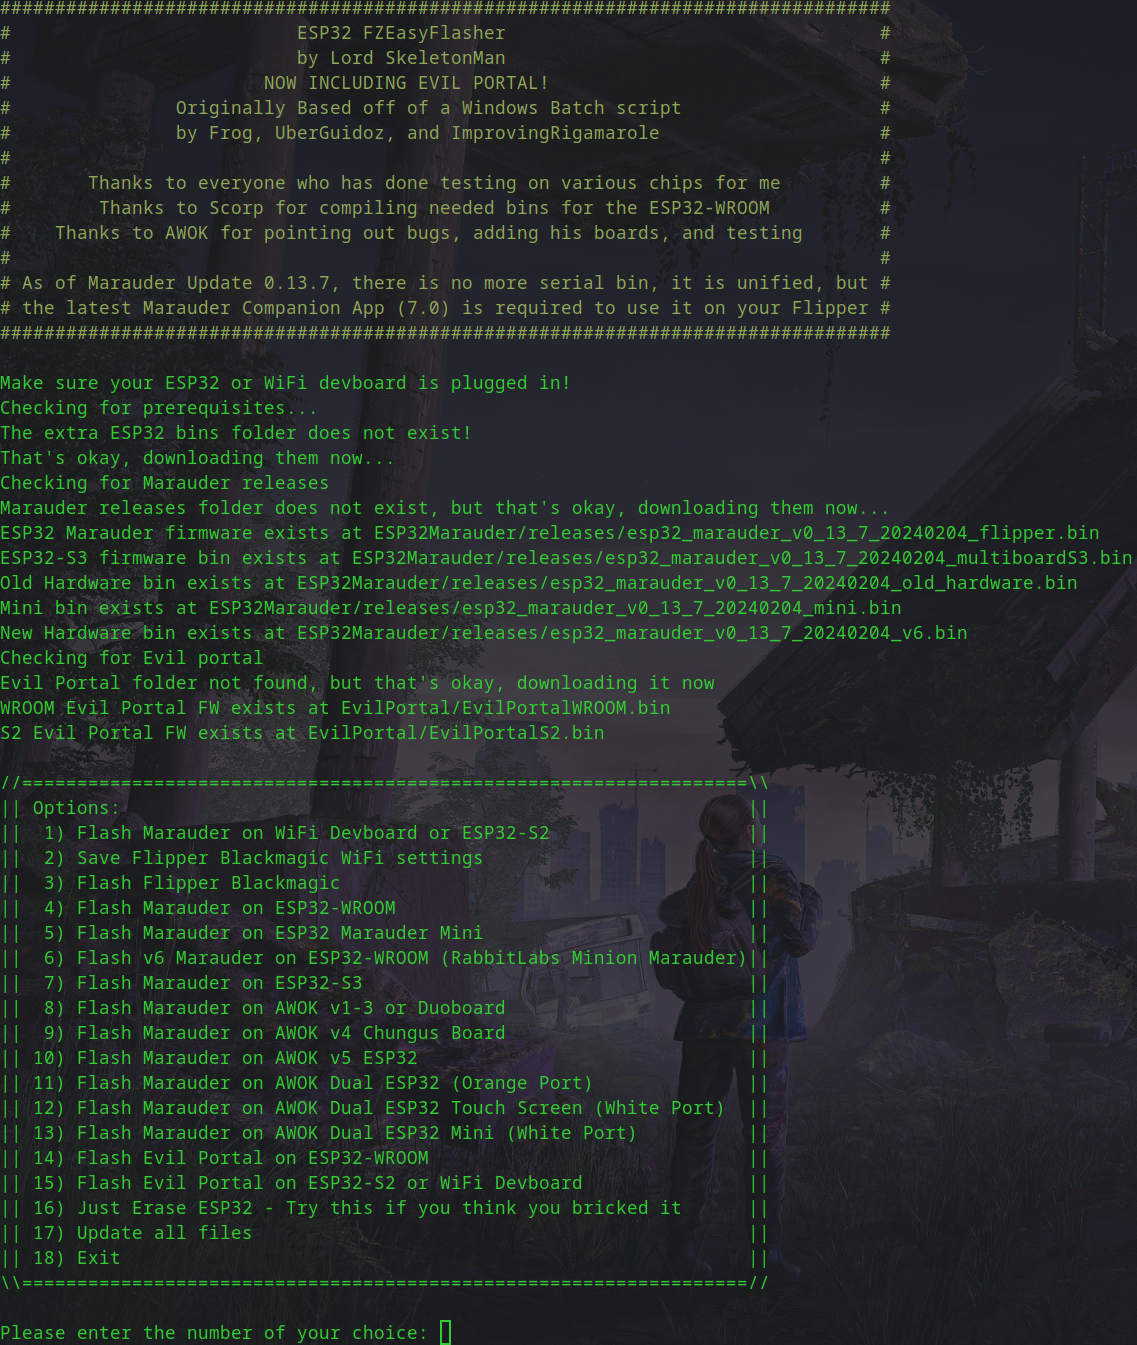
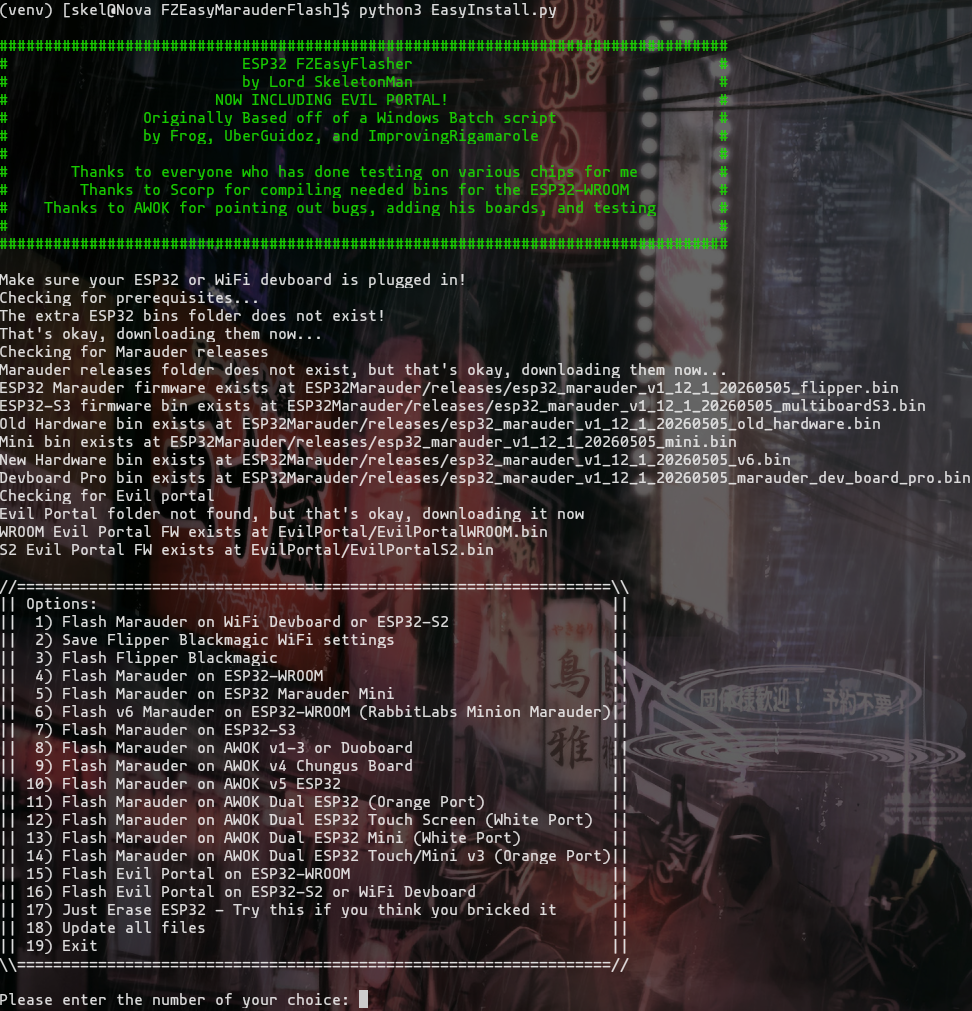
Overdue updates to use current ESPTool, added support for v3 AWOK boards

diff --git a/EasyInstall.py b/EasyInstall.py
@@ -33,8 +33,6 @@ OPENASCII=Fore.GREEN+r'''
 #        Thanks to Scorp for compiling needed bins for the ESP32-WROOM		#
 #    Thanks to AWOK for pointing out bugs, adding his boards, and testing  	#
 #										#
-# As of Marauder Update 0.13.7, there is no more serial bin, it is unified, but #
-# the latest Marauder Companion App (7.0) is required to use it on your Flipper #
 #################################################################################
 '''+Style.RESET_ALL
 
@@ -101,18 +99,19 @@ def choose_fw():
 ||  4) Flash Marauder on ESP32-WROOM			            ||
 ||  5) Flash Marauder on ESP32 Marauder Mini		            ||
 ||  6) Flash v6 Marauder on ESP32-WROOM (RabbitLabs Minion Marauder)||
-||  7) Flash Marauder on ESP32-S3 (There is no current S3 bin)      ||
+||  7) Flash Marauder on ESP32-S3                                   ||
 ||  8) Flash Marauder on AWOK v1-3 or Duoboard                      ||
 ||  9) Flash Marauder on AWOK v4 Chungus Board                      ||
 || 10) Flash Marauder on AWOK v5 ESP32                              ||
 || 11) Flash Marauder on AWOK Dual ESP32 (Orange Port)              ||
 || 12) Flash Marauder on AWOK Dual ESP32 Touch Screen (White Port)  ||
 || 13) Flash Marauder on AWOK Dual ESP32 Mini (White Port)          ||
-|| 14) Flash Evil Portal on ESP32-WROOM				    ||
-|| 15) Flash Evil Portal on ESP32-S2 or WiFi Devboard		    ||
-|| 16) Just Erase ESP32 - Try this if you think you bricked it	    ||
-|| 17) Update all files					            ||
-|| 18) Exit						            ||
+|| 14) Flash Marauder on AWOK Dual ESP32 Touch/Mini v3 (Orange Port)||
+|| 15) Flash Evil Portal on ESP32-WROOM				    ||
+|| 16) Flash Evil Portal on ESP32-S2 or WiFi Devboard		    ||
+|| 17) Just Erase ESP32 - Try this if you think you bricked it	    ||
+|| 18) Update all files					            ||
+|| 19) Exit						            ||
 \\==================================================================//
 '''
 	#Still not perfect, but better
@@ -120,7 +119,7 @@ def choose_fw():
 	global selectedboard
 	global fwchoice
 	global fwchoicepreselect
-	hardresetlist=[5, 6, 8, 9, 10, 11, 12, 13]
+	hardresetlist=[5, 6, 8, 9, 10, 11, 12, 13, 14]
 
 	if fwchoice!=None:
 		fwchoicepreselect=True
@@ -133,9 +132,9 @@ def choose_fw():
 		print(choices)
 		fwchoice=int(input("Please enter the number of your choice: "))
 	if fwchoice in hardresetlist:
-		reset='hard_reset'
+		reset='hard-reset'
 	else:
-		reset='no_reset'
+		reset='no-reset'
 	if fwchoice==1:
 		print("You have chosen to flash Marauder on a WiFi devboard or ESP32-S2")
 		chip="esp32s2"
@@ -149,15 +148,15 @@ def choose_fw():
 		offset_three='0x10000'
 		fwbin=esp32marauderfw
 		checkforserialport()
-		eraseparams=['-p', serialport, '-b', BR, '-a', 'no_reset', 'erase_flash']
-		flashparams=['-p', serialport, '-b', BR, '-c', chip, '--before', 'default_reset', '-a', reset, 'write_flash', '--flash_mode', 'dio', '--flash_freq', '80m', '--flash_size', flashsize, offset_one, bootloader_bin, offset_two, partitions_bin, offset_three, fwbin]
+		eraseparams=['-p', serialport, '-b', BR, '-a', 'no-reset', 'erase-flash']
+		flashparams=['-p', serialport, '-b', BR, '-c', chip, '--before', 'default-reset', '-a', reset, 'write-flash', '--flash-mode', 'dio', '--flash-freq', '80m', '--flash-size', flashsize, offset_one, bootloader_bin, offset_two, partitions_bin, offset_three, fwbin]
 		flashtheboard(eraseparams, flashparams)
 	elif fwchoice==2:
 		print("You have chosen to save Flipper Blackmagic WiFi settings")
 		chip="esp32s2"
 		checkforserialport()
-		eraseparams=['-p', serialport, '-b', BR, 'erase_flash']
-		savebmset=['-p', serialport, '-b', BR, '-c', chip, '-a', 'no_reset', 'read_flash', '0x9000', '0x6000', extraesp32bins+'/Blackmagic/nvs.bin']
+		eraseparams=['-p', serialport, '-b', BR, 'erase-flash']
+		savebmset=['-p', serialport, '-b', BR, '-c', chip, '-a', 'no-reset', 'read_flash', '0x9000', '0x6000', extraesp32bins+'/Blackmagic/nvs.bin']
 		save_flipperbmsettings(savebmset)
 	elif fwchoice==3:
 		print("You have chosen to flash Flipper Blackmagic")
@@ -171,15 +170,15 @@ def choose_fw():
 		partitions_bin=extraesp32bins+'/Blackmagic/partition-table.bin'
 		fwbin=extraesp32bins+'/Blackmagic/blackmagic.bin'
 		checkforserialport()
-		eraseparams=['-p', serialport, '-b', BR, 'erase_flash']
+		eraseparams=['-p', serialport, '-b', BR, 'erase-flash']
 		if os.path.exists(extraesp32bins+"/Blackmagic/nvs.bin"):
 			offset_three='0x9000'
 			wifisettings=extraesp32bins+'/Blackmagic/nvs.bin'
 			offset_four='0x10000'
-			flashparams=['-p', serialport, '-b', BR, '-c', chip, '--before', 'default_reset', '-a', 'no_reset', 'write_flash', '--flash_mode', 'dio', '--flash_freq', '80m', '--flash_size', flashsize, offset_one, bootloader_bin, offset_two, partitions_bin, offset_three, wifisettings, offset_four, fwbin]
+			flashparams=['-p', serialport, '-b', BR, '-c', chip, '--before', 'default-reset', '-a', 'no-reset', 'write-flash', '--flash-mode', 'dio', '--flash-freq', '80m', '--flash-size', flashsize, offset_one, bootloader_bin, offset_two, partitions_bin, offset_three, wifisettings, offset_four, fwbin]
 		else:
 			offset_three='0x10000'
-			flashparams=esptool.main['-p', serialport, '-b', BR, '-c', chip, '--before', 'default_reset', '-a', 'no_reset', 'write_flash', '--flash_mode', 'dio', '--flash_freq', '80m', '--flash_size', flashsize, offset_one, bootloader_bin, offset_two, partitions_bin, offset_three, fwbin]
+			flashparams=esptool.main['-p', serialport, '-b', BR, '-c', chip, '--before', 'default-reset', '-a', 'no-reset', 'write-flash', '--flash-mode', 'dio', '--flash-freq', '80m', '--flash-size', flashsize, offset_one, bootloader_bin, offset_two, partitions_bin, offset_three, fwbin]
 		flashtheboard(eraseparams, flashparams)
 	elif fwchoice==4:
 		print("You have chosen to flash Marauder onto an ESP32-WROOM")
@@ -194,8 +193,8 @@ def choose_fw():
 		offset_three='0x10000'
 		fwbin=espoldhardwarefw
 		checkforserialport()
-		eraseparams=['-p', serialport, '-b', BR, 'erase_flash']
-		flashparams=['-p', serialport, '-b', BR, '-c', chip, '--before', 'default_reset', '-a', reset, 'write_flash', '--flash_mode', 'dio', '--flash_freq', '80m', '--flash_size', flashsize, offset_one, bootloader_bin, offset_two, partitions_bin, offset_three, fwbin]		
+		eraseparams=['-p', serialport, '-b', BR, 'erase-flash']
+		flashparams=['-p', serialport, '-b', BR, '-c', chip, '--before', 'default-reset', '-a', reset, 'write-flash', '--flash-mode', 'dio', '--flash-freq', '80m', '--flash-size', flashsize, offset_one, bootloader_bin, offset_two, partitions_bin, offset_three, fwbin]		
 		flashtheboard(eraseparams, flashparams)
 	elif fwchoice==5:
 		print("You have chosen to flash Marauder onto an ESP32 Marauder Mini")
@@ -210,8 +209,8 @@ def choose_fw():
 		offset_three='0x10000'
 		fwbin=esp32minifw
 		checkforserialport()
-		eraseparams=['-p', serialport, '-b', BR, 'erase_flash']
-		flashparams=['-p', serialport, '-b', BR, '-c', chip, '--before', 'default_reset', '-a', reset, 'write_flash', '--flash_mode', 'dio', '--flash_freq', '80m', '--flash_size', flashsize, offset_one, bootloader_bin, offset_two, partitions_bin, offset_three, fwbin]
+		eraseparams=['-p', serialport, '-b', BR, 'erase-flash']
+		flashparams=['-p', serialport, '-b', BR, '-c', chip, '--before', 'default-reset', '-a', reset, 'write-flash', '--flash-mode', 'dio', '--flash-freq', '80m', '--flash-size', flashsize, offset_one, bootloader_bin, offset_two, partitions_bin, offset_three, fwbin]
 		flashtheboard(eraseparams, flashparams)
 	elif fwchoice==6:
 		print("You have chosen to flash Marauder v6 onto an ESP32-WROOM")
@@ -226,8 +225,8 @@ def choose_fw():
 		offset_three='0x10000'
 		fwbin=espnewhardwarefw
 		checkforserialport()
-		eraseparams=['-p', serialport, '-b', BR, 'erase_flash']
-		flashparams=['-p', serialport, '-b', BR, '-c', chip, '--before', 'default_reset', '-a', reset, 'write_flash', '--flash_mode', 'dio', '--flash_freq', '80m', '--flash_size', flashsize, offset_one, bootloader_bin, offset_two, partitions_bin, offset_three, fwbin]
+		eraseparams=['-p', serialport, '-b', BR, 'erase-flash']
+		flashparams=['-p', serialport, '-b', BR, '-c', chip, '--before', 'default-reset', '-a', reset, 'write-flash', '--flash-mode', 'dio', '--flash-freq', '80m', '--flash-size', flashsize, offset_one, bootloader_bin, offset_two, partitions_bin, offset_three, fwbin]
 		flashtheboard(eraseparams, flashparams)
 	elif fwchoice==7:
 		print("You have chosen to flash Marauder onto an ESP32-S3")
@@ -250,8 +249,8 @@ def choose_fw():
 		offset_four='0x10000'
 		fwbin=esp32s3fw
 		checkforserialport()
-		eraseparams=['-p', serialport, '-b', BR, 'erase_flash']
-		flashparams=['-p', serialport, '-b', BR, '-c', chip, '--before', 'default_reset', '-a', 'no_reset', 'write_flash', '--flash_mode', 'dio', '--flash_freq', '80m', '--flash_size', flashsize, offset_one, bootloader_bin, offset_two, partitions_bin, offset_three, boot_app, offset_four, fwbin]
+		eraseparams=['-p', serialport, '-b', BR, 'erase-flash']
+		flashparams=['-p', serialport, '-b', BR, '-c', chip, '--before', 'default-reset', '-a', 'no-reset', 'write-flash', '--flash-mode', 'dio', '--flash-freq', '80m', '--flash-size', flashsize, offset_one, bootloader_bin, offset_two, partitions_bin, offset_three, boot_app, offset_four, fwbin]
 		flashtheboard(eraseparams, flashparams)
 	elif fwchoice==8:
 		print("You have chosen to flash Marauder onto an AWOK v1-3 or Duoboard")
@@ -266,8 +265,8 @@ def choose_fw():
 		offset_three='0x10000'
 		fwbin=espoldhardwarefw
 		checkforserialport()
-		eraseparams=['-p', serialport, '-b', BR, 'erase_flash']
-		flashparams=['-p', serialport, '-b', BR, '-c', chip, '--before', 'default_reset', '-a', reset, 'write_flash', '--flash_mode', 'dio', '--flash_freq', '80m', '--flash_size', flashsize, offset_one, bootloader_bin, offset_two, partitions_bin, offset_three, fwbin]
+		eraseparams=['-p', serialport, '-b', BR, 'erase-flash']
+		flashparams=['-p', serialport, '-b', BR, '-c', chip, '--before', 'default-reset', '-a', reset, 'write-flash', '--flash-mode', 'dio', '--flash-freq', '80m', '--flash-size', flashsize, offset_one, bootloader_bin, offset_two, partitions_bin, offset_three, fwbin]
 		flashtheboard(eraseparams, flashparams)
 	elif fwchoice==9:
 		print("You have chosen to flash Marauder on an AWOK v4 Chungus Board")
@@ -282,8 +281,8 @@ def choose_fw():
 		offset_three='0x10000'
 		fwbin=esp32marauderfw
 		checkforserialport()
-		eraseparams=['-p', serialport, '-b', BR, 'erase_flash']
-		flashparams=['-p', serialport, '-b', BR, '-c', chip, '--before', 'default_reset', '-a', reset, 'write_flash', '--flash_mode', 'dio', '--flash_freq', '80m', '--flash_size', flashsize, offset_one, bootloader_bin, offset_two, partitions_bin, offset_three, fwbin]
+		eraseparams=['-p', serialport, '-b', BR, 'erase-flash']
+		flashparams=['-p', serialport, '-b', BR, '-c', chip, '--before', 'default-reset', '-a', reset, 'write-flash', '--flash-mode', 'dio', '--flash-freq', '80m', '--flash-size', flashsize, offset_one, bootloader_bin, offset_two, partitions_bin, offset_three, fwbin]
 		flashtheboard(eraseparams, flashparams)
 	elif fwchoice==10:
 		print("You have chosen to flash Marauder on an AWOK v5 ESP32")
@@ -298,8 +297,8 @@ def choose_fw():
 		offset_three='0x10000'
 		fwbin=esp32marauderfw
 		checkforserialport()
-		eraseparams=['-p', serialport, '-b', BR, 'erase_flash']
-		flashparams=['-p', serialport, '-b', BR, '-c', chip, '--before', 'default_reset', '-a', reset, 'write_flash', '--flash_mode', 'dio', '--flash_freq', '80m', '--flash_size', flashsize, offset_one, bootloader_bin, offset_two, partitions_bin, offset_three, fwbin]
+		eraseparams=['-p', serialport, '-b', BR, 'erase-flash']
+		flashparams=['-p', serialport, '-b', BR, '-c', chip, '--before', 'default-reset', '-a', reset, 'write-flash', '--flash-mode', 'dio', '--flash-freq', '80m', '--flash-size', flashsize, offset_one, bootloader_bin, offset_two, partitions_bin, offset_three, fwbin]
 		flashtheboard(eraseparams, flashparams)
 	elif fwchoice==11:
 		print("You have chosen to flash Marauder on an AWOK Dual ESP32 (Orange Port)")
@@ -314,8 +313,8 @@ def choose_fw():
 		offset_three='0x10000'
 		fwbin=esp32marauderfw
 		checkforserialport()
-		eraseparams=['-p', serialport, '-b', BR, 'erase_flash']
-		flashparams=['-p', serialport, '-b', BR, '-c', chip, '--before', 'default_reset', '-a', reset, 'write_flash', '--flash_mode', 'dio', '--flash_freq', '80m', '--flash_size', flashsize, offset_one, bootloader_bin, offset_two, partitions_bin, offset_three, fwbin]
+		eraseparams=['-p', serialport, '-b', BR, 'erase-flash']
+		flashparams=['-p', serialport, '-b', BR, '-c', chip, '--before', 'default-reset', '-a', reset, 'write-flash', '--flash-mode', 'dio', '--flash-freq', '80m', '--flash-size', flashsize, offset_one, bootloader_bin, offset_two, partitions_bin, offset_three, fwbin]
 		flashtheboard(eraseparams, flashparams)
 	elif fwchoice==12: 
 		print("You have chosen to flash Marauder onto an AWOK Dual ESP32 Touch Screen (White Port)")
@@ -330,8 +329,8 @@ def choose_fw():
 		offset_three='0x10000'
 		fwbin=espnewhardwarefw
 		checkforserialport()
-		eraseparams=['-p', serialport, '-b', BR, 'erase_flash']
-		flashparams=['-p', serialport, '-b', BR, '-c', chip, '--before', 'default_reset', '-a', reset, 'write_flash', '--flash_mode', 'dio', '--flash_freq', '80m', '--flash_size', flashsize, offset_one, bootloader_bin, offset_two, partitions_bin, offset_three, fwbin]
+		eraseparams=['-p', serialport, '-b', BR, 'erase-flash']
+		flashparams=['-p', serialport, '-b', BR, '-c', chip, '--before', 'default-reset', '-a', reset, 'write-flash', '--flash-mode', 'dio', '--flash-freq', '80m', '--flash-size', flashsize, offset_one, bootloader_bin, offset_two, partitions_bin, offset_three, fwbin]
 		flashtheboard(eraseparams, flashparams)
 	elif fwchoice==13:
 		print("You have chosen to flash Marauder onto an AWOK Dual ESP32 Mini (White Port)")
@@ -346,10 +345,26 @@ def choose_fw():
 		offset_three='0x10000'
 		fwbin=esp32minifw
 		checkforserialport()
-		eraseparams=['-p', serialport, '-b', BR, 'erase_flash']
-		flashparams=['-p', serialport, '-b', BR, '-c', chip, '--before', 'default_reset', '-a', reset, 'write_flash', '--flash_mode', 'dio', '--flash_freq', '80m', '--flash_size', flashsize, offset_one, bootloader_bin, offset_two, partitions_bin, offset_three, fwbin]
+		eraseparams=['-p', serialport, '-b', BR, 'erase-flash']
+		flashparams=['-p', serialport, '-b', BR, '-c', chip, '--before', 'default-reset', '-a', reset, 'write-flash', '--flash-mode', 'dio', '--flash-freq', '80m', '--flash-size', flashsize, offset_one, bootloader_bin, offset_two, partitions_bin, offset_three, fwbin]
 		flashtheboard(eraseparams, flashparams)
 	elif fwchoice==14:
+		print("You have chosen to flash Marauder onto an AWOK Dual ESP32 Touch v3 (Orange Port)")
+		chip="esp32"
+		selectedfw="Marauder"
+		selectedboard="AWOK Dual ESP32 Touch v3 (Orange Port)"
+		flashsize='4MB'
+		offset_one='0x1000'
+		bootloader_bin=scorpbins+'/bootloader.bin'
+		offset_two='0x8000'
+		partitions_bin=scorpbins+'/partitions.bin'
+		offset_three='0x10000'
+		fwbin=espprofw
+		checkforserialport()
+		eraseparams=['-p', serialport, '-b', BR, 'erase-flash']
+		flashparams=['-p', serialport, '-b', BR, '-c', chip, '--before', 'default-reset', '-a', reset, 'write-flash', '--flash-mode', 'dio', '--flash-freq', '80m', '--flash-size', flashsize, offset_one, bootloader_bin, offset_two, partitions_bin, offset_three, fwbin]
+		flashtheboard(eraseparams, flashparams)
+	elif fwchoice==15:
 		print("You have chosen to flash Evil Portal on an ESP32-WROOM")
 		chip="esp32"
 		selectedfw="Evil Portal"
@@ -358,10 +373,10 @@ def choose_fw():
 		offset_one='0x1000'
 		fwbin=evilportalfwwroom
 		checkforserialport()
-		eraseparams=['-p', serialport, '-b', BR, 'erase_flash']
-		flashparams=['-p', serialport, '-b', BR, '-c', chip, '--before', 'default_reset', '-a', 'hard_reset', 'write_flash', '--flash_mode', 'dio', '--flash_freq', '80m', '--flash_size', flashsize, offset_one, fwbin]
+		eraseparams=['-p', serialport, '-b', BR, 'erase-flash']
+		flashparams=['-p', serialport, '-b', BR, '-c', chip, '--before', 'default-reset', '-a', 'hard-reset', 'write-flash', '--flash-mode', 'dio', '--flash-freq', '80m', '--flash-size', flashsize, offset_one, fwbin]
 		flashtheboard(eraseparams, flashparams)
-	elif fwchoice==15:
+	elif fwchoice==16:
 		print("You have chosen to flash Evil Portal on an ESP32-S2 or WiFi Devboard")
 		chip="esp32s2"
 		selectedfw="Evil Portal"
@@ -370,20 +385,20 @@ def choose_fw():
 		offset_one='0x1000'
 		fwbin=evilportalfws2
 		checkforserialport()
-		eraseparams=['-p', serialport, '-b', BR,  '-a', 'no_reset', 'erase_flash']
-		flashparams=['-p', serialport, '-b', BR, '-c', chip, '--before', 'default_reset', '-a', 'hard_reset', 'write_flash', '--flash_mode', 'dio', '--flash_freq', '80m', '--flash_size', flashsize, offset_one, fwbin]
+		eraseparams=['-p', serialport, '-b', BR,  '-a', 'no-reset', 'erase-flash']
+		flashparams=['-p', serialport, '-b', BR, '-c', chip, '--before', 'default-reset', '-a', 'hard-reset', 'write-flash', '--flash-mode', 'dio', '--flash-freq', '80m', '--flash-size', flashsize, offset_one, fwbin]
 		flashtheboard(eraseparams, flashparams)
-	elif fwchoice==16:
+	elif fwchoice==17:
 		print("You have chosen to just erase the ESP32")
 		checkforserialport()
-		eraseparams=['-p', serialport, '-b', BR, 'erase_flash']
+		eraseparams=['-p', serialport, '-b', BR, 'erase-flash']
 		erase_esp32(eraseparams)
-	elif fwchoice==17:
+	elif fwchoice==18:
 		print("You have chosen to update all of the files")
 		fwchoicepreselect=False
 		fwchoice=None
 		update_option()
-	elif fwchoice==18:
+	elif fwchoice==19:
 		print("You have chosen to exit")
 		print("Exiting!")
 		exit()
@@ -515,6 +530,18 @@ def checkfornewhardwarebin():
 			print("Somehow, the new_hardware.bin file does not exist!")
 	return
 
+def checkforprobin():
+	espprofwc=('ESP32Marauder/releases/esp32_marauder_v*_marauder_dev_board_pro.bin')
+	if not glob.glob(espprofwc):
+		print("dev_board_pro bin does not exist!")
+	global espprofw
+	for espprofw in glob.glob(espprofwc):
+		if os.path.exists(espprofw):
+			print("Devboard Pro bin exists at", espprofw)
+		else:
+			print("Somehow, the dev_board_pro.bin file does not exist!")
+	return
+
 def prereqcheck():
 	print("Checking for prerequisites...")
 	checkforextrabins()
@@ -523,6 +550,7 @@ def prereqcheck():
 	checkforoldhardwarebin()
 	checkforminibin()
 	checkfornewhardwarebin()
+	checkforprobin()
 	checkforevilportal()
 	return
 

diff --git a/README.md b/README.md
@@ -29,12 +29,12 @@ You need to install `git` however you would on your system if you haven't alread
 You can find it [here in UberGuidoZ's repo](https://github.com/UberGuidoZ/Flipper/blob/main/Wifi_DevBoard/FZ_Marauder_Flasher)
 
 ## About this script
-* There have been MASSIVE changes to how the settings are done for flashing because it started becoming cluttered and this script became too long, but this won't affect usage.  
 * This script pulls all of its resources from the proper Github repositories in order to make sure you are up-to-date.  
 * The only dependencies it does not get by itself are the required Python modules and Windows tools.  
 * This script should work on most devices that can run Python 3 and can access serial ports via USB.  
 * Support for Evil Portal has been added!
 * As of Marauder Update 0.13.7, there is no more serial bin, it is unified, but the latest Marauder Companion App (7.0) is required to use it on your Flipper
+* AWOK v3 board support has been added!
 
 ## Compatible boards
 * Flipper Zero WiFi Devboard  
@@ -77,9 +77,6 @@ Here are some steps to try:
 * On Windows and Python is acting strange? Uninstall it then re-install it via the Microsoft Store.
 * Make sure you're running the latest Python release! If you're on 3.8 when current is 3.11.3 for example, don't bother opening an issue until after you upgrade and try again. Don't try to use old stuff.
 * Still can't get it and don't understand CLI at all and can't even figure out how to cd? What are you even doing? This definitely isn't for you. Try using the ESP Flasher app on your Flipper Zero.  
-
-## Why do I kind of pick on Windows users?
-Simply, because Windows users seem to come across the most issues (and to be fair, this was a pain to make work properly in Windows), a lot of which are users not understanding how to use the CLI or not reading this whole page, especially the top section.  
 
 ## TODO:
 * Even more code cleanup.  